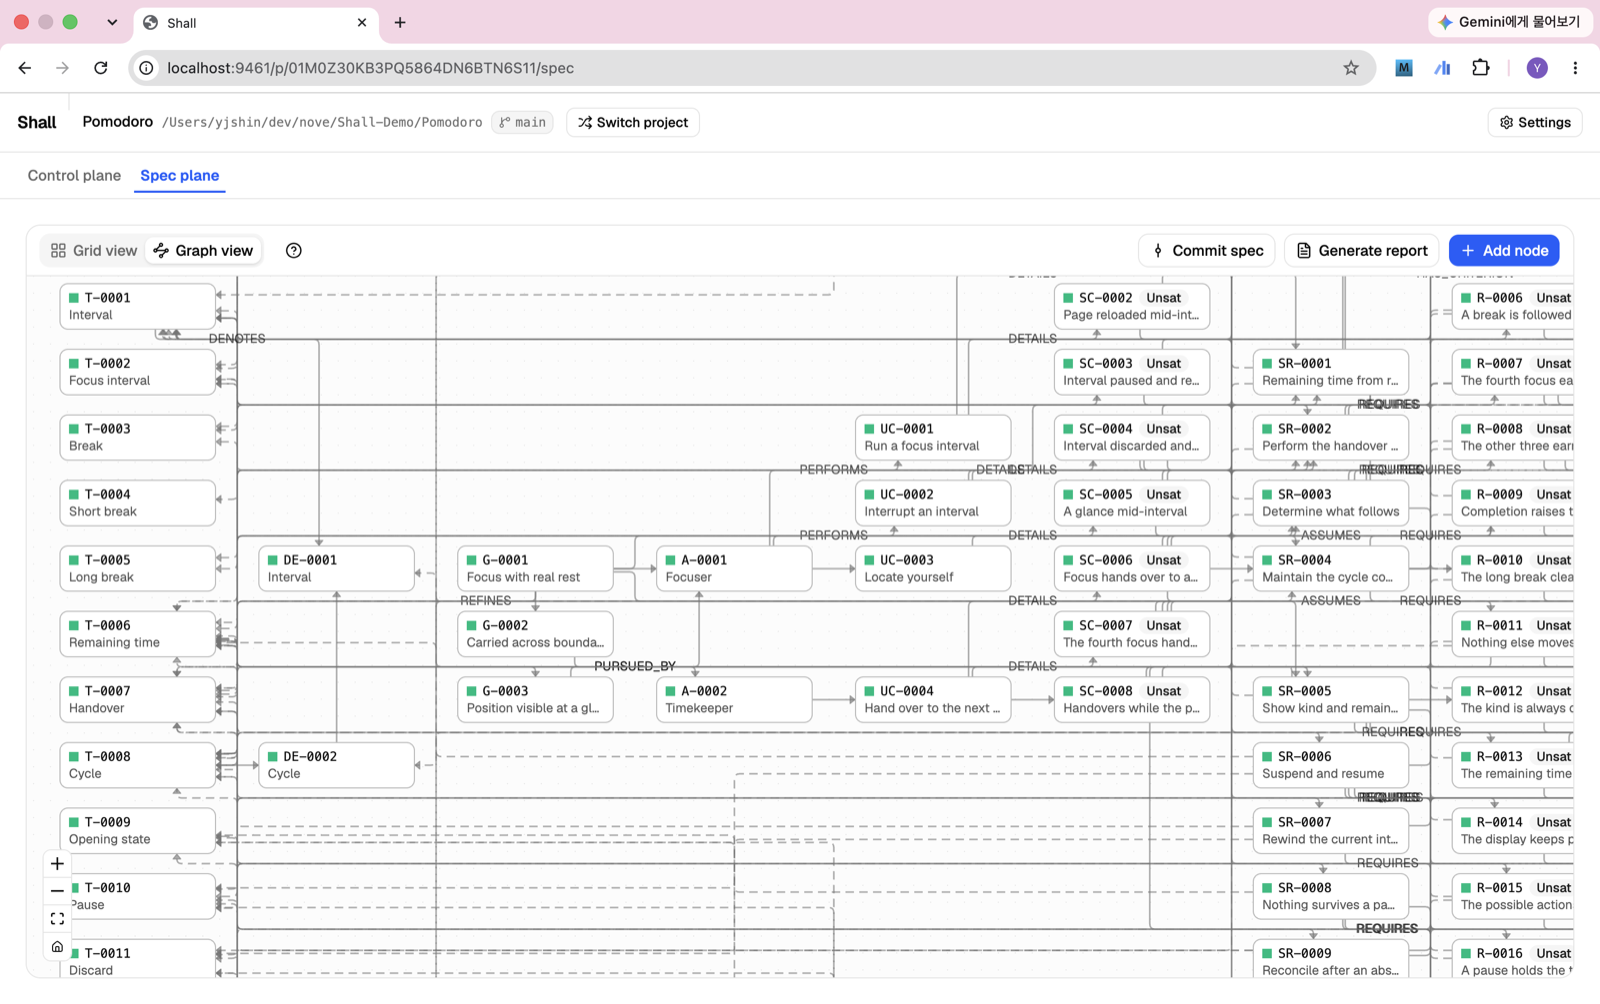
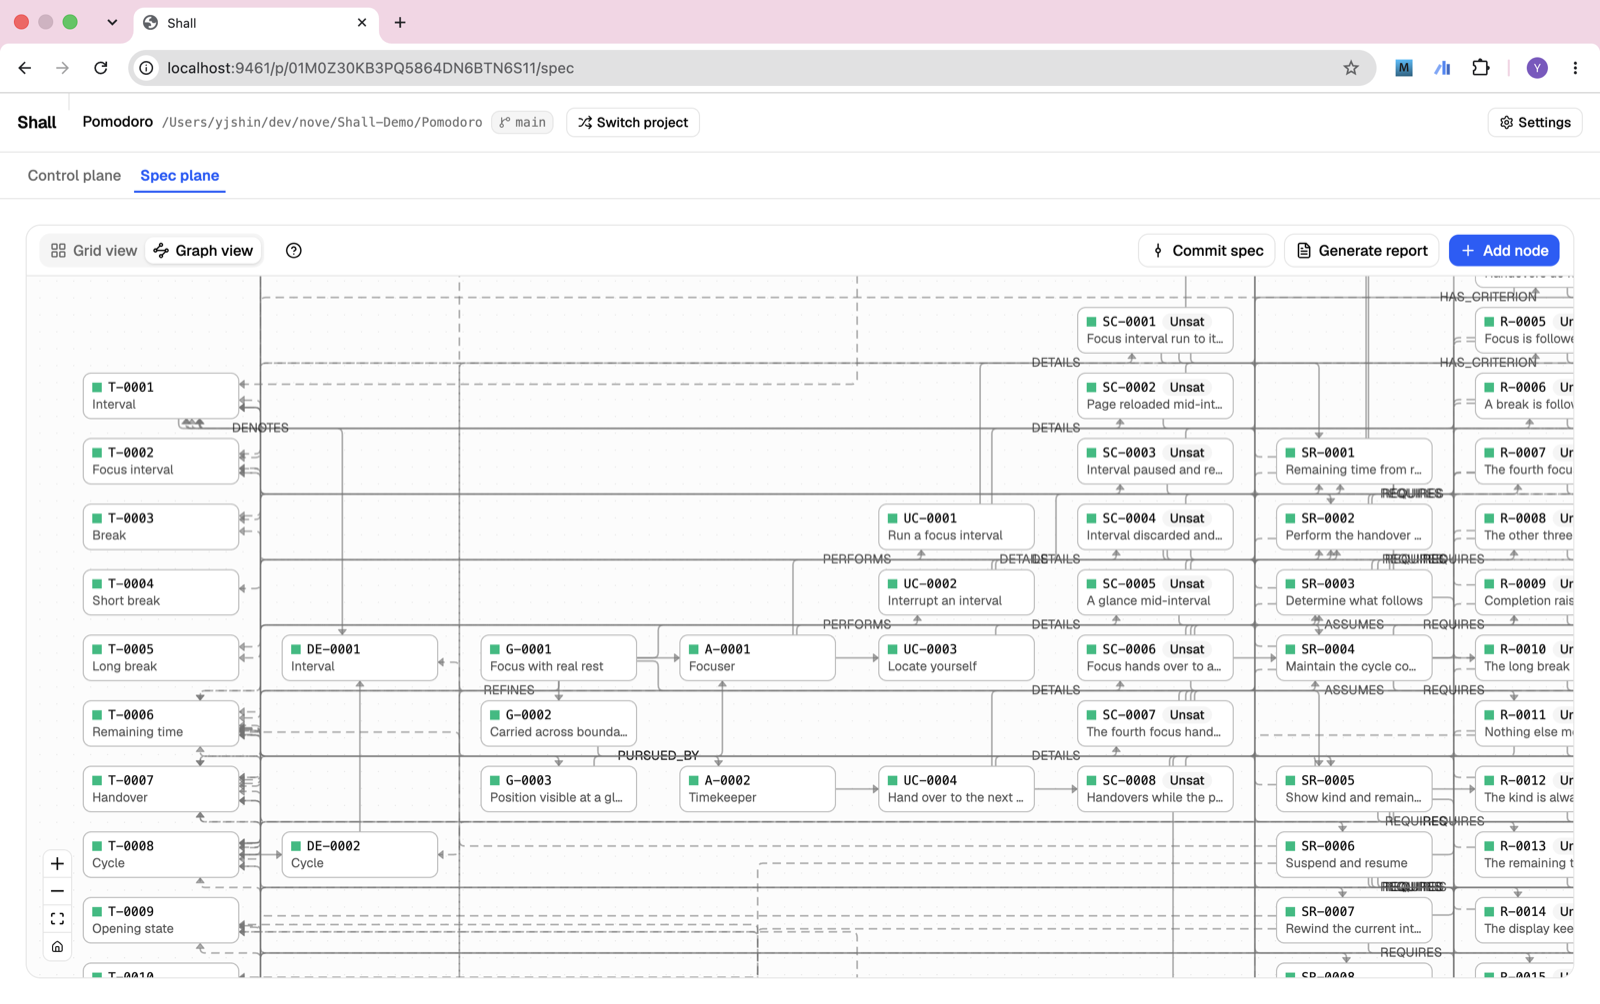
Fill both porch portraits: control plane left, spec plane right

diff --git a/README.md b/README.md
@@ -18,7 +18,7 @@ Shall keeps your project's specification as a living graph of markdown files ins
 Your agents read the same graph through their own commands, so what they build is always the spec you approved.
 
 <p align="center">
-  <!-- left screenshot lands here -->
+  <img src="./docs/assets/control-plane.png" width="49.5%" alt="The Control plane — review queue, board, feed and vitals in one place">
   <img src="./docs/assets/spec-plane.png" width="49.5%" alt="The Spec plane — the whole specification as a graph, every node wearing its state">
 </p>
 
